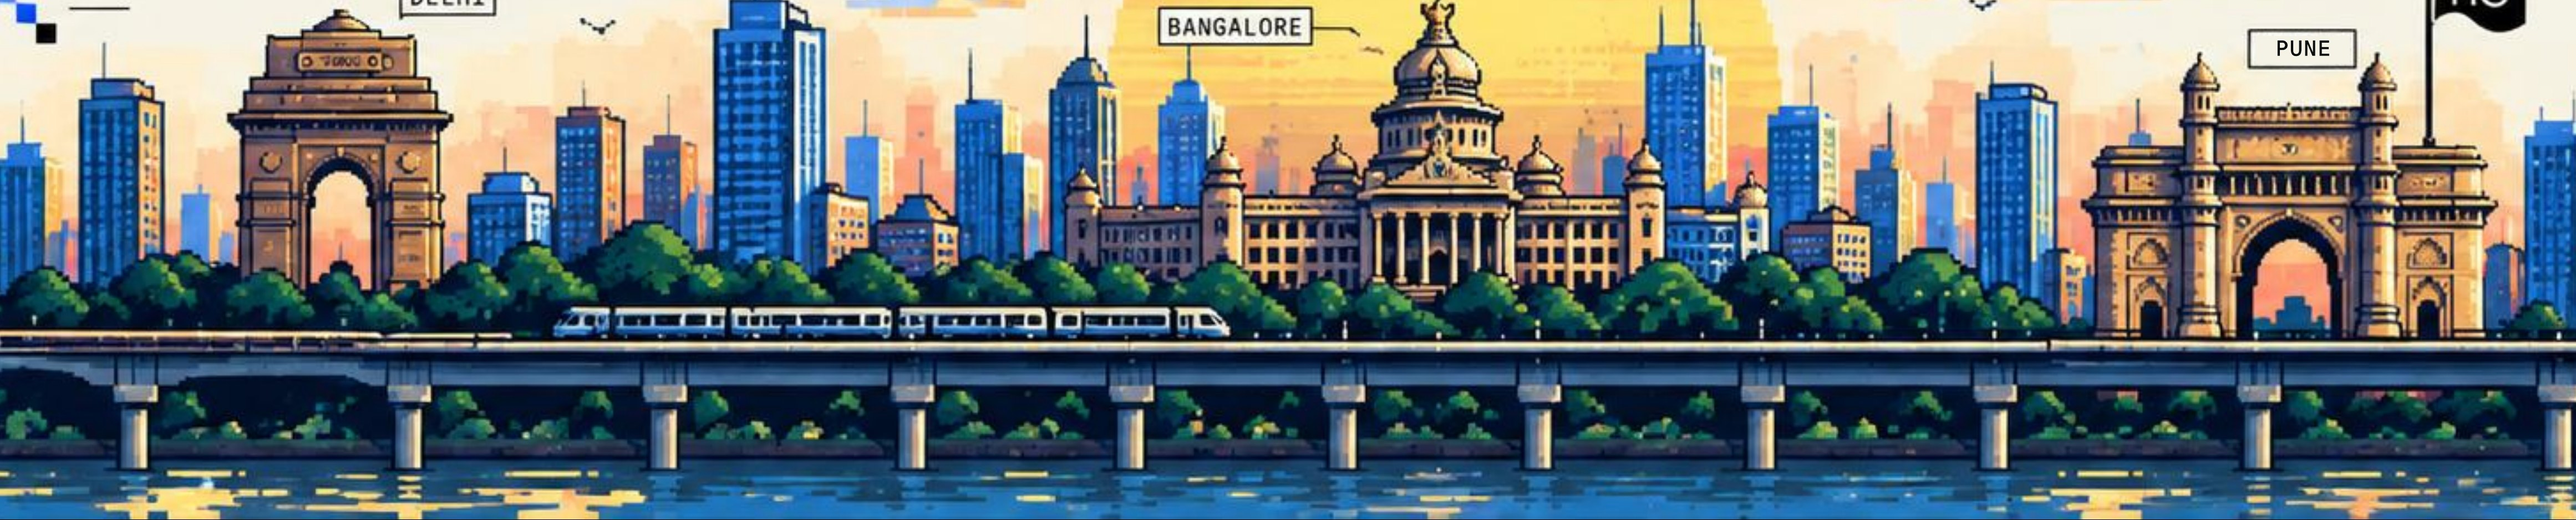
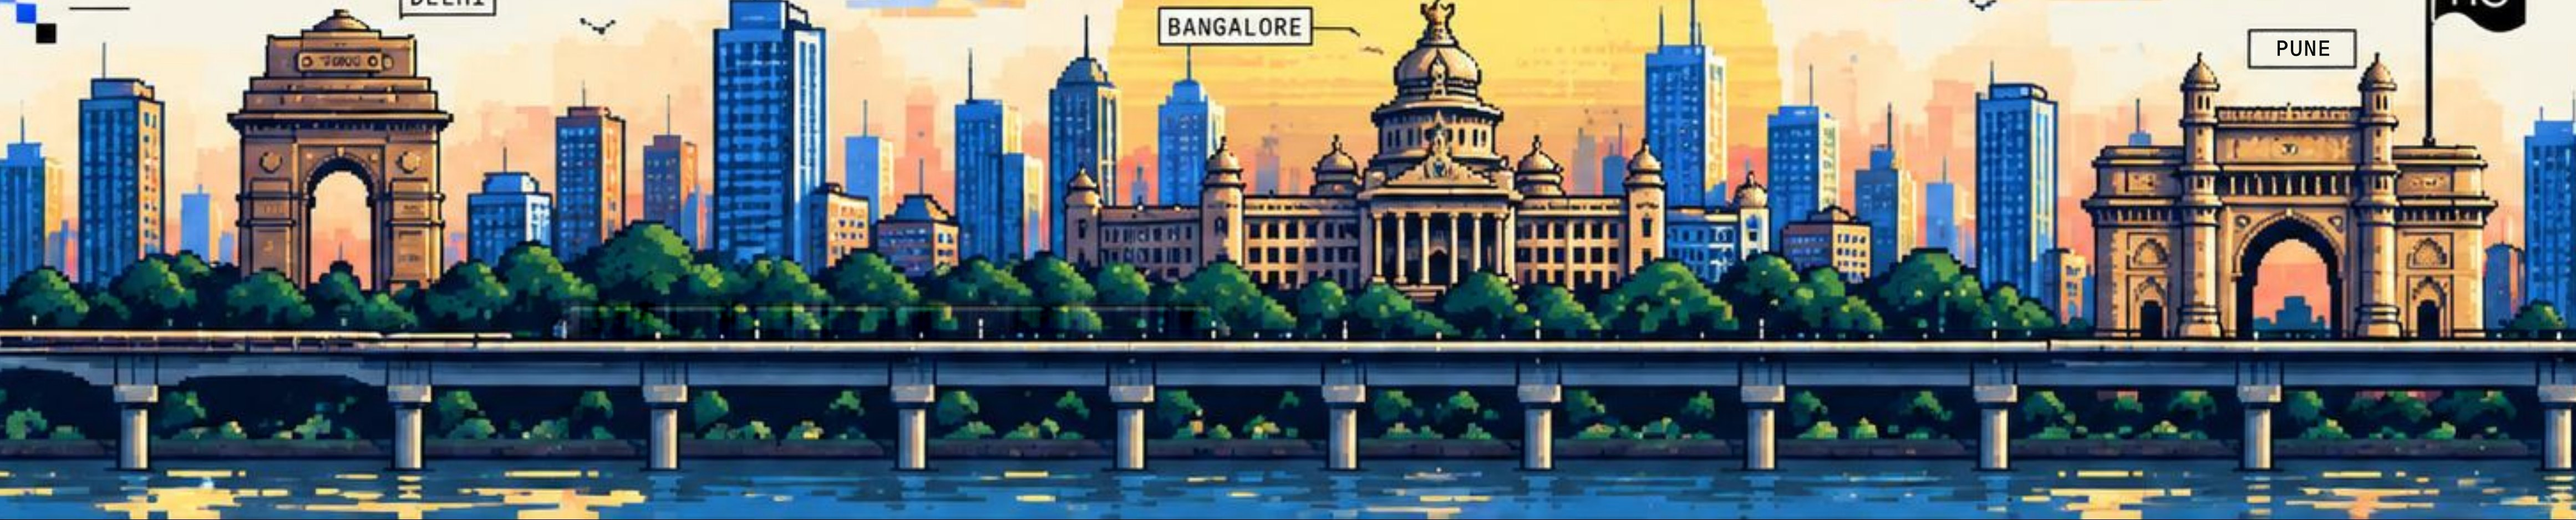
Use the real metro train in the hero band
The cartoon CSS train is gone. Instead the deck's own Namma Metro train is
lifted out of the artwork at 200dpi into a transparent sprite
(assets/img/brand/metro.png), and the skyline band is patched where the train
stood: the stretch is re-filled with cloned trees, colour-matched per column
to the row above and feathered so no seam shows.

The sprite now runs along the viaduct with a soft bob, drop shadow and motion
ghost. There is only ever one train on the line.

Changed region(s): [[0.2185, 0.5565, 0.4995, 0.6493]]

diff --git a/assets/css/motion.css b/assets/css/motion.css
@@ -310,24 +310,37 @@ html:not(.js) .intro{display:none}
 
 /* --------------------------------------------------------------------------
    Metro running along the deck skyline
+
+   The sprite is the real Namma Metro train lifted out of the supplied deck
+   artwork (assets/img/brand/metro.png). The train was removed from the
+   skyline band itself, so there is only ever one train on the viaduct.
    -------------------------------------------------------------------------- */
 .hero__skyline{position:relative;overflow:hidden}
 .hero__metro{
-  position:absolute;left:-88px;bottom:29%;
-  width:88px;height:18px;
-  background:
-    repeating-linear-gradient(90deg,var(--paper) 0 6px,transparent 6px 13px) 0 6px/100% 6px no-repeat,
-    var(--blue);
-  box-shadow:0 -4px 0 0 var(--ink),0 0 0 2px rgba(11,11,11,.55);
-  animation:metro-run 34s linear infinite;
+  position:absolute;left:0;top:59.1%;
+  width:26.83%;
+  animation:metro-run 32s linear infinite;
   will-change:transform;
 }
-.hero__metro::after{
-  content:"";position:absolute;left:3px;right:3px;top:-4px;height:4px;background:var(--ink);
+.hero__metro i{
+  display:block;width:100%;aspect-ratio:1246 / 84;
+  background:url("../img/brand/metro.png") no-repeat center / 100% 100%;
+  animation:metro-bob 1.7s ease-in-out infinite alternate;
+  filter:drop-shadow(0 4px 3px rgba(11,11,11,.45));
+}
+.hero__metro::before{
+  content:"";position:absolute;inset:0;
+  background:url("../img/brand/metro.png") no-repeat center / 100% 100%;
+  filter:blur(3px);opacity:.28;transform:translateX(-1.4%);
 }
 @keyframes metro-run{
-  from{transform:translate3d(0,0,0)}
-  to{transform:translate3d(calc(100vw + 160px),0,0)}
+  0%{transform:translate3d(-32%,0,0)}
+  56%{transform:translate3d(112%,0,0)}
+  100%{transform:translate3d(112%,0,0)}
+}
+@keyframes metro-bob{
+  from{transform:translateY(0)}
+  to{transform:translateY(-1px)}
 }
 @media (prefers-reduced-motion:reduce){
   .hero__metro{animation:none;display:none}

diff --git a/index.html b/index.html
@@ -129,7 +129,7 @@
     </div>
     <div class="hero__skyline" aria-hidden="true">
       <img src="assets/img/brand/skyline.jpg" width="4645" height="938" alt="" loading="eager">
-      <span class="hero__metro"></span>
+      <span class="hero__metro"><i></i></span>
     </div>
   </section>
 

diff --git a/README.md b/README.md
@@ -75,7 +75,8 @@ labelled **DevRel Squad** as supplied.
 assets/img/brand/reality-check-title.png   pixel title cropped from the Delhi poster
 assets/img/brand/noclue-black.png          trimmed noClue wordmark
 assets/img/brand/noclue-white.png          trimmed white noClue wordmark
-assets/img/brand/skyline.jpg               city skyline strip from the deck
+assets/img/brand/skyline.jpg               city skyline strip from the deck (train removed)
+assets/img/brand/metro.png                 the deck's metro train, lifted out as a sprite
 assets/img/og.jpg                          1200×630 social card
 favicon.svg                                 cream/blue pixel favicon
 icon-192.png / icon-512.png                 PWA icons
@@ -155,7 +156,7 @@ Everything below is optional chrome — the page is fully readable with JS off.
 | Velocity ticker | The marquee reacts to scroll speed |
 | Cursor states | Contextual labels (`Apply`, `Partner`, `View`) on a shrinking blue pixel |
 | Pixel button fill | Buttons fill with a checkerboard pixel grid on hover |
-| Metro | A pixel train runs along the bridge in the hero skyline band |
+| Metro | The real metro train from the deck artwork runs along the viaduct in the hero band |
 | Nav hover swap | Nav labels roll up and a blue duplicate rolls in |
 | Count-up | The `03` city counter counts up when it enters the viewport |
 | FAQ height | Answers animate open/closed instead of snapping |
